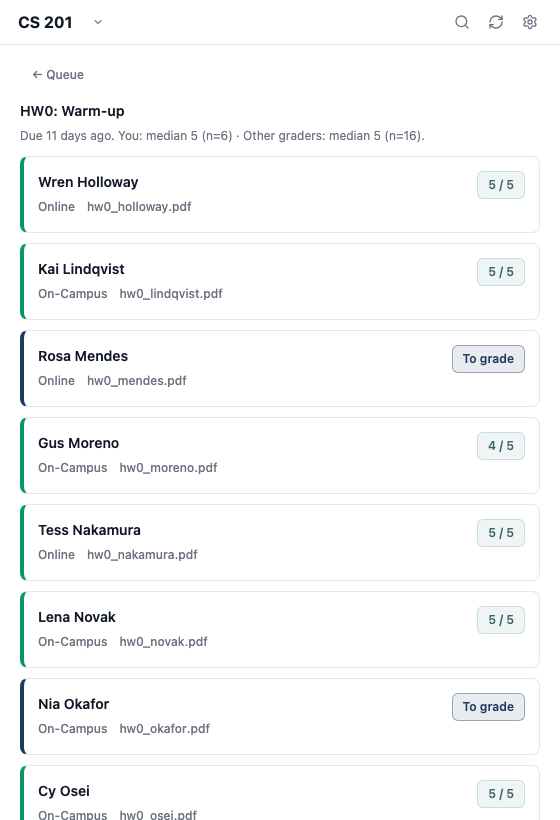
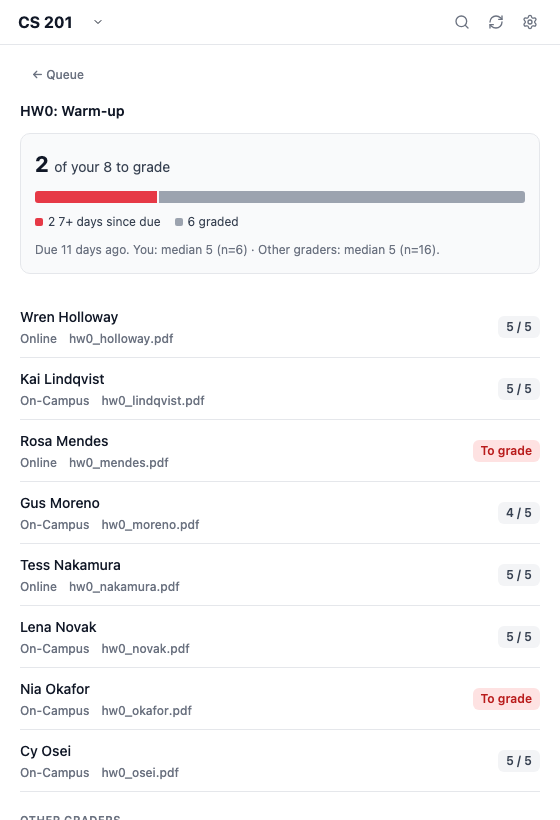
Grading screenshots show the new worklist and Next to grade

diff --git a/docs/index.html b/docs/index.html
@@ -542,7 +542,7 @@
                 <p class="sub">Fictional course, invented students: nothing in these captures comes from a real Canvas course.</p>
 
                 <div class="shot-feature">
-                    <div class="shot-media"><img src="ss-grading-queue.png?v=11" width="560" height="806" alt="The Kandue for Graders queue: a You · 17 / Everyone · 44 switch beside the Report link, 17 to grade in a ring split into 2 at 7+ days since due and 15 under 7 days with a Grade oldest first button, then rows for HW0, HW1 and Lab 2, each led by its longest wait (11 days, in red, for HW0), with a bar and a line such as &quot;2 of your 8 to grade · 6 graded&quot;, and Not due yet and Done buttons under the list" loading="lazy" decoding="async"></div>
+                    <div class="shot-media"><img src="ss-grading-queue.png?v=12" width="560" height="806" alt="The Kandue for Graders queue: a You · 17 / Everyone · 44 switch beside the Report link, 17 to grade in a ring split into 2 at 7+ days since due and 15 under 7 days with a Next to grade button naming Rosa Mendes, then rows for HW0, HW1 and Lab 2, each led by its longest wait (11 days, in red, for HW0), with a bar and a line such as &quot;2 of your 8 to grade · 6 graded&quot;, and Not due yet and Done buttons under the list" loading="lazy" decoding="async"></div>
                     <div class="shot-copy">
                         <h4>Who is waiting on you</h4>
                         <p>Every assignment with students of yours still to grade, the longest wait at the top. Each row says how long the first of your students has waited and how many of them are still to grade, with a bar for your block.</p>
@@ -551,12 +551,12 @@
 
                 <div class="shot-grid">
                     <div class="shot">
-                        <img src="ss-grading-work.png?v=11" width="560" height="820" alt="The worklist for HW0: Warm-up, due 11 days ago, with the grader's median score against the other graders', Rosa Mendes and Nia Okafor marked To grade, and the students around them already scored 4 or 5 out of 5" loading="lazy" decoding="async">
+                        <img src="ss-grading-work.png?v=12" width="560" height="820" alt="The worklist for HW0: Warm-up: 2 of your 8 to grade over a bar, due 11 days ago, with the grader's median score against the other graders', then one row per student, Rosa Mendes and Nia Okafor marked To grade in red and the students around them scored 4 or 5 out of 5" loading="lazy" decoding="async">
                         <h4>The worklist for your block</h4>
                         <p>To grade, graded with the score, resubmitted, late, missing or excused, each student one click from SpeedGrader.</p>
                     </div>
                     <div class="shot">
-                        <img src="ss-grading-split.png?v=12" width="560" height="920" alt="Kandue for Graders settings showing who grades whom: three TAs with their student ranges, the signed-in grader's own block in bold, and a note that 22 of 22 graded rows match this split" loading="lazy" decoding="async">
+                        <img src="ss-grading-split.png?v=13" width="560" height="920" alt="Kandue for Graders settings showing who grades whom: three TAs with their student ranges, the signed-in grader's own block in bold, and a note that 22 of 22 graded rows match this split" loading="lazy" decoding="async">
                         <h4>Who grades whom, read back</h4>
                         <p>The split every TA is actually using, checked against every grade already entered, with the disagreements named.</p>
                     </div>
